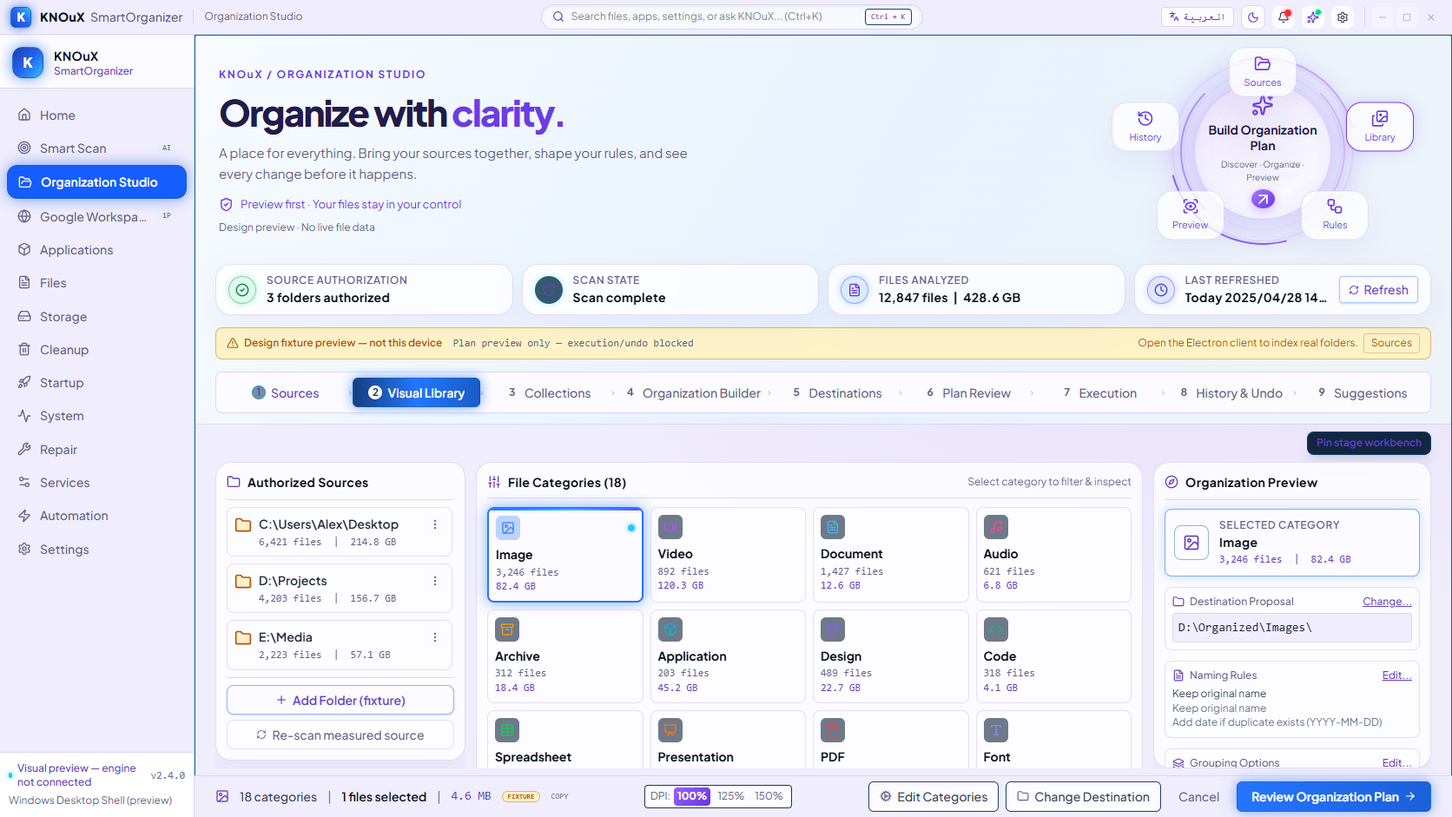
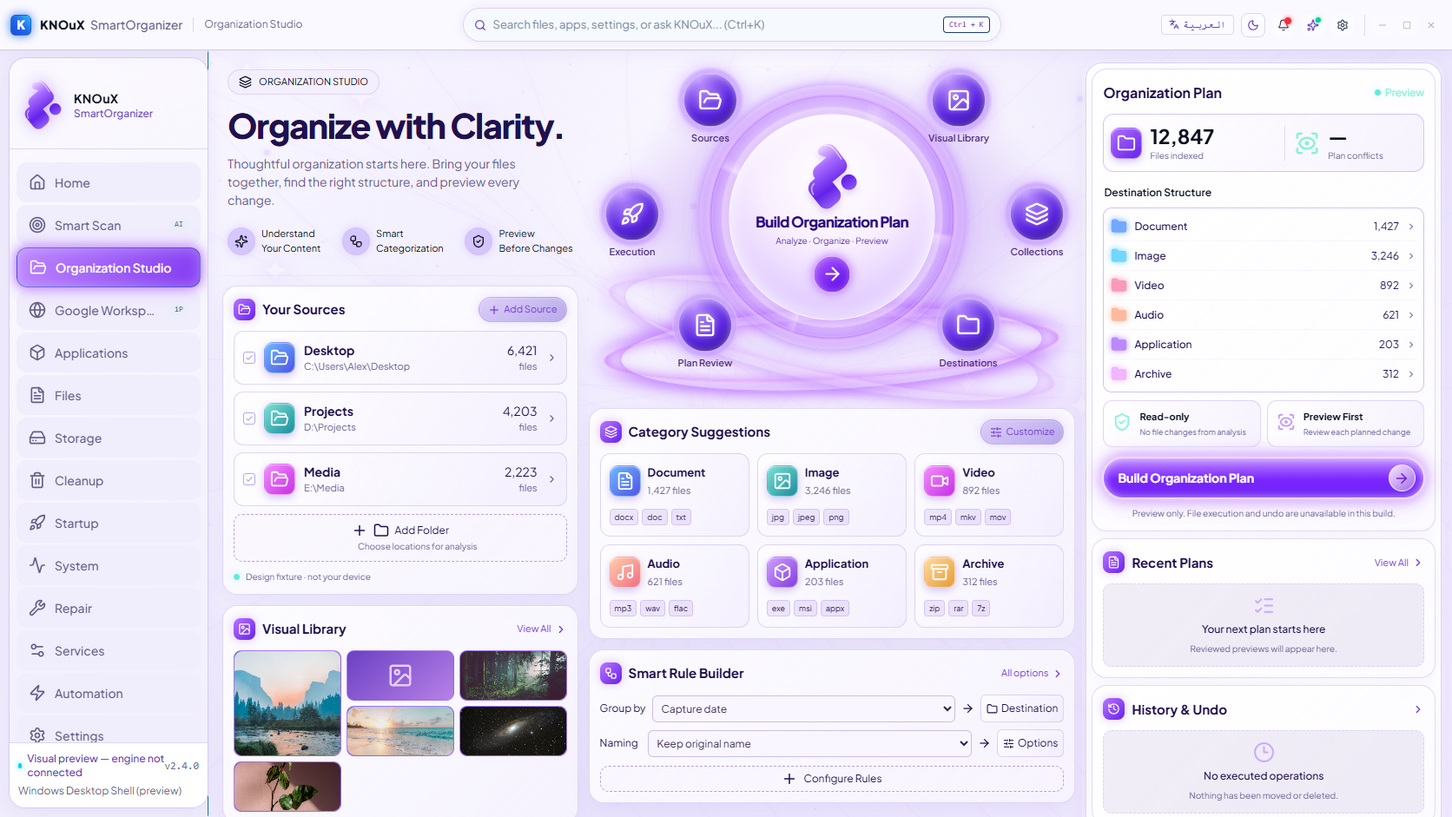
feat(visual): reconstruct studio composition from paired approved references

diff --git a/apps/gemini-ui/src/visual/studio-reference.css b/apps/gemini-ui/src/visual/studio-reference.css
@@ -1,0 +1,165 @@
+/* Reference reconstruction: content is native React; atmosphere is procedural SVG/CSS. */
+.visual-sprint[data-visual-section='studio']:has(.knx-studio-reference) {
+  --ref-ink: #f8f7ff; --ref-muted: #d0c9f5; --ref-border: #b293ff72;
+  --ref-card: linear-gradient(145deg,#5d47c155,#27236cbb 48%,#211d67b0);
+  --ref-inset: linear-gradient(120deg,#594ac34a,#302b813b); --ref-strong: #e3caff;
+  --ref-shadow: inset 0 1px 1px #ffffff45,inset 0 0 20px #9875ff0c,0 3px 15px #10092755,0 0 16px #9a65ff20;
+  background: #17124b; color: var(--ref-ink);
+}
+.visual-sprint[data-visual-section='studio'] main > .knx-studio-reference {
+  position: relative; flex: 1; min-height: 0; overflow: auto;
+  background: radial-gradient(ellipse at 52% 35%,#8c40fa80,transparent 42%),radial-gradient(ellipse at 3% 80%,#694cfa85,transparent 36%),radial-gradient(ellipse at 90% 10%,#7454e94d,transparent 42%),linear-gradient(130deg,#17184f,#25185c 58%,#211951) !important;
+  color: var(--ref-ink); isolation: isolate; scrollbar-width: thin;
+}
+.knx-reference-atmosphere { position: absolute; inset: 0; pointer-events: none; z-index: -1; overflow: hidden; opacity: .75; }
+.knx-reference-atmosphere svg { width: 100%; height: 100%; filter: drop-shadow(0 0 4px #c185ff); }
+.knx-reference-atmosphere::before { content:''; position:absolute; inset:0; background:radial-gradient(ellipse at 50% 45%,#c09bff33,transparent 45%),repeating-conic-gradient(from 18deg at 50% 38%,transparent 0deg 13deg,#ad82ef0c 13.2deg 13.6deg,transparent 14deg 31deg); }
+.knx-neural-lines { stroke: #b891ff; stroke-width: .65; opacity: .4; }
+.knx-starbursts { filter: drop-shadow(0 0 5px #fff) drop-shadow(0 0 10px #e5baff); }
+.knx-studio-reference-grid { display: grid; grid-template-columns: minmax(285px,.92fr) minmax(390px,1.26fr) minmax(310px,.92fr); gap: 12px; padding: 14px 12px 14px 16px; min-height: 100%; align-items: start; }
+.knx-ref-column { display: flex; flex-direction: column; min-width: 0; gap: 12px; }
+.knx-ref-intro { min-height: 245px; padding: 8px 6px 0; }
+.knx-ref-section-tag { display: inline-flex; align-items: center; gap: 8px; padding: 6px 12px; font-size: 11px; line-height: 1.3; border: 1px solid var(--ref-border); border-radius: 20px; background: #8160e329; box-shadow: inset 0 1px #ffffff20; }
+.knx-ref-intro h1 { font-size: clamp(28px,2.35vw,40px); line-height: 1.1; letter-spacing: -.035em; font-weight: 750; margin: 14px 0 12px; color: var(--ref-ink) !important; }
+.knx-ref-intro > p { font-size: 14px; line-height: 1.5; max-width: 380px; color: var(--ref-muted); }
+.knx-ref-values { display: flex; justify-content: space-between; margin-top: 20px; gap: 12px; }
+.knx-ref-values > span { display: grid; grid-template-columns: 32px 1fr; column-gap: 7px; align-items:center; font-size: 11px; line-height: 1.5; }
+.knx-ref-values svg { grid-row: span 2; width:32px; height:32px; padding:7px; border:1px solid var(--ref-border); border-radius:50%; background:#9366ff50; box-shadow:0 0 12px #9b65ff44; }
+.knx-ref-values small { font-size: 11px; }
+.knx-ref-card { border: 1px solid var(--ref-border); border-radius: 17px; padding: 12px; background: var(--ref-card); box-shadow: var(--ref-shadow); backdrop-filter: blur(16px); min-width: 0; }
+.knx-ref-card-head { display: flex; align-items: center; justify-content: space-between; gap: 8px; min-height: 29px; margin-bottom: 10px; }
+.knx-ref-card-head h2 { display:flex; align-items:center; gap:8px; font-size:14px; font-weight:700; margin:0; color:var(--ref-ink) !important; }
+.knx-ref-card-head h2 > svg { width:25px; height:25px; padding:5px; border-radius:8px; background:linear-gradient(135deg,#b875ff,#6821ed); color:white; box-shadow:0 0 12px #a56bff66; }
+.knx-ref-card-head > button,.knx-ref-card-head .knx-ref-pill { display:inline-flex; align-items:center; gap:4px; background:transparent; border:0; color:var(--ref-strong); font-size:11px; cursor:pointer; white-space:nowrap; }
+.knx-ref-card-head button > svg { width:14px; height:14px; }
+.knx-ref-card-head button.knx-ref-pill { border:1px solid #ae8eff77; background:linear-gradient(150deg,#a47bed55,#5336c966); border-radius:20px; padding:5px 10px; box-shadow:inset 0 1px 2px #ffffff44,0 0 12px #9b65ff33; }
+.knx-ref-source-list { display:flex; flex-direction:column; gap:8px; }
+.knx-ref-source { display:flex; align-items:center; gap:10px; width:100%; min-height:62px; padding:9px 10px; border:1px solid #a18bed5c; border-radius:11px; background:var(--ref-inset); text-align:start; color:var(--ref-ink); box-shadow:inset 0 1px 1px #ffffff12; cursor:pointer; }
+.knx-ref-checkbox { width:14px; height:14px; border:1px solid #b9a5ff; border-radius:3px; display:grid; place-items:center; flex-shrink:0; }
+.knx-ref-checkbox svg { width:10px; height:10px; opacity:.45; }
+.knx-ref-file-icon { width:36px; height:36px; flex-shrink:0; display:grid; place-items:center; border:1px solid #ffffff45; border-radius:10px; background:linear-gradient(140deg,#b16eff,#6523e8); color:#fff; box-shadow:inset 0 1px 1px #ffffff66,0 3px 10px #6327c844; }
+.knx-ref-file-icon svg { width:22px; height:22px; }
+.knx-ref-source-name { flex:1; min-width:0; }
+.knx-ref-source-name strong { display:block; font-size:12px; font-weight:650; overflow:hidden; text-overflow:ellipsis; white-space:nowrap; }
+.knx-ref-source-name small { display:block; font-size:10px; line-height:1.5; color:var(--ref-muted); overflow:hidden; text-overflow:ellipsis; white-space:nowrap; }
+.knx-ref-source-count { text-align:end; font-size:12px; }
+.knx-ref-source-count small { display:block; font-size:10px; color:var(--ref-muted); }
+.knx-ref-source > svg { width:13px; color:var(--ref-muted); flex-shrink:0; }
+.knx-ref-add { width:100%; display:flex; align-items:center; justify-content:center; flex-wrap:wrap; gap:7px; margin-top:9px; border:1px dashed #bba2ff; border-radius:10px; padding:9px; background:#39267833; color:var(--ref-ink); font-size:12px; cursor:pointer; }
+.knx-ref-add svg { width:18px; height:18px; }
+.knx-ref-add span { width:100%; padding-inline-start:40px; margin-top:-5px; color:var(--ref-muted); font-size:10px; }
+.knx-ref-source-status { font-size:10px; color:var(--ref-muted); display:flex; align-items:center; gap:7px; margin-top:10px; }
+.knx-ref-dot { display:inline-block; width:7px; height:7px; border-radius:50%; background:#63ead7; box-shadow:0 0 9px #4cebdc80; }
+.knx-ref-gallery { display:grid; grid-template-columns:repeat(3,minmax(0,1fr)); grid-auto-rows:58px; gap:6px; border:0; padding:0; width:100%; background:none; cursor:pointer; }
+.knx-ref-gallery img { width:100%; height:100%; object-fit:cover; border-radius:9px; border:1px solid #ae8eff66; }
+.knx-ref-gallery img:first-child { grid-row:span 2; }
+.knx-ref-thumbnail { display:grid; place-items:center; position:relative; overflow:hidden; border-radius:9px; background:linear-gradient(140deg,#6b40c4,#b781e6); border:1px solid #ae8eff66; }
+.knx-ref-thumbnail:first-child { grid-row:span 2; }.knx-ref-thumbnail > svg { width:30px; height:30px; color:#e5ccff; }.knx-ref-thumbnail > img { position:absolute; inset:0; height:100%; width:100%; border:0; }
+.knx-ref-gallery .knx-ref-empty { grid-column:1/-1; grid-row:span 2; }
+.knx-reference-orbit { position:relative; height:386px; min-width:0; isolation:isolate; }
+.knx-orbit-aura { position:absolute; width:100%; height:100%; inset:0; z-index:-1; background:radial-gradient(ellipse at 50% 48%,#fffaffcc 0,#dcadff66 18%,#9653ed42 38%,transparent 65%); filter:blur(8px); }
+.knx-reference-ring { position:absolute; left:50%; top:46%; width:285px; height:285px; transform:translate(-50%,-50%); border:2px solid #e2c0ff; border-radius:50%; box-shadow:0 0 8px #fff7ff,0 0 23px #b76aff,inset 0 0 25px #b773ff; background:conic-gradient(from 18deg,#d3a4ff16,#fff5ff77 5deg,#9b54f714 12deg,#9955ff55 80deg,#f9e1ff 82deg,#8b48f422 88deg,#b779ff33 180deg,#fff0ff99 181deg,#a364fa22 185deg,#b97fff44 275deg,#fff5ff 277deg,#b77dff22 282deg); }
+.knx-reference-ring::after { content:''; position:absolute; inset:-12px; border:1px solid #d9baff88; border-radius:50%; box-shadow:0 0 10px #ae69ff77; }
+.knx-reference-ring.inner { width:255px; height:255px; border:1px solid #e6cbff; background:transparent; box-shadow:0 0 0 6px #d4b0ff33,inset 0 0 12px #fff8ff; }
+.knx-reference-orbit-core { position:absolute; width:237px; height:237px; left:50%; top:46%; transform:translate(-50%,-50%); display:flex; flex-direction:column; align-items:center; justify-content:center; border:1px solid #fff; border-radius:50%; background:radial-gradient(circle at 50% 30%,#fff 0,#f9efff 40%,#dfc8ff 77%,#a570e9 100%); box-shadow:inset 0 0 22px #fff,0 0 22px #fff7ff88,0 0 42px #c78bff99; cursor:pointer; color:#2c087f !important; padding:20px; }
+.knx-reference-orbit-core > svg { width:65px; height:82px; margin-bottom:0; filter:drop-shadow(0 5px 4px #9a66c344); }
+.knx-reference-orbit-core { z-index:3; transform:translate3d(-50%,-50%,0); backface-visibility:hidden; will-change:transform; }.knx-reference-ring { z-index:0; }
+.knx-reference-orbit-core strong { font-size:17px; line-height:1.25; font-weight:750; letter-spacing:-.04em; white-space:nowrap; }
+.knx-reference-orbit-core small { font-size:10px; margin-top:3px; color:#4a21a0; }
+.knx-reference-orbit-core > span { display:grid; place-items:center; width:43px; height:43px; border-radius:50%; background:linear-gradient(140deg,#ae5cff,#5800e7); color:#fff; margin-top:10px; box-shadow:inset 0 0 8px #ffffff66,0 0 12px #ae5aff; border:1px solid #e1b3ff; }
+.knx-reference-orbit-core > span svg { width:24px; height:24px; }
+.knx-orbit-equator { position:absolute; left:3%; right:3%; bottom:19px; height:74px; border:2px solid #e7bfff; border-radius:50%; box-shadow:0 0 12px #fff,0 0 24px #ac51ff,inset 0 0 15px #c66bff; transform:rotate(-3deg); z-index:-1; }
+.knx-orbit-equator::before { content:''; position:absolute; inset:-12px 18px; border:1px solid #c890ffbb; border-radius:50%; box-shadow:0 0 18px #b76aff; }
+.knx-orbit-equator.second { bottom:25px; height:88px; transform:rotate(12deg); opacity:.5; }
+.knx-reference-satellite { position:absolute; transform:translate(-50%,-50%); width:90px; min-height:85px; display:flex; flex-direction:column; align-items:center; justify-content:center; background:none; color:#fff; border:0; cursor:pointer; gap:4px; z-index:2; }
+.knx-reference-satellite > span { display:grid; place-items:center; width:62px; height:62px; border-radius:50%; border:1px solid #d4afff; background:radial-gradient(circle at 30% 15%,#b88cff,#5a24df 58%,#2d1779); box-shadow:inset 0 2px 8px #fff7ff88,0 0 0 5px #ae7eff44,0 0 0 7px #d9bdff88,0 0 24px #bc7aff; }
+.knx-reference-satellite svg { width:28px; height:28px; filter:drop-shadow(0 0 3px #fff6); }
+.knx-reference-satellite strong { font-size:11px; font-weight:600; text-shadow:0 1px 5px #1a004e; }
+.knx-reference-satellite { transform:translate3d(-50%,-50%,0); backface-visibility:hidden; will-change:transform; z-index:4; }
+.satellite-0 { left:25%; top:14%; }.satellite-1 { left:76%; top:14%; }.satellite-2 { left:9%; top:48%; }.satellite-3 { left:92%; top:48%; }.satellite-4 { left:24%; top:81%; }.satellite-5 { left:78%; top:81%; }
+.knx-ref-category-grid { display:grid; grid-template-columns:repeat(3,minmax(0,1fr)); gap:9px; }
+.knx-ref-category { display:grid; grid-template-columns:36px minmax(0,1fr); align-items:center; gap:9px 8px; min-height:96px; border:1px solid #a38bf666; border-radius:12px; background:var(--ref-inset); color:var(--ref-ink); padding:10px; text-align:start; cursor:pointer; }
+.knx-ref-category strong { display:block; font-size:11px; font-weight:650; }
+.knx-ref-category small { display:block; font-size:10px; color:var(--ref-muted); margin-top:3px; }
+.knx-ref-extension-list { grid-column:1/-1; display:flex; gap:4px; overflow:hidden; }
+.knx-ref-extension-list i { font-style:normal; padding:2px 5px; border:1px solid #a486ee55; border-radius:4px; font-size:9px; background:#8d62d922; }
+.knx-ref-rules label { display:flex; align-items:center; gap:7px; margin-top:8px; font-size:11px; }
+.knx-ref-rules label > span { min-width:48px; }
+.knx-ref-rules select { flex:1; min-width:0; width:100%; padding:6px; border:1px solid #ad90f05c; border-radius:6px; background:#332775; color:#f6efff; font-size:11px; }
+.knx-ref-rules label > svg { width:15px; flex-shrink:0; }
+.knx-ref-rules label > button { display:inline-flex; align-items:center; justify-content:center; gap:4px; border:1px solid #ad90f05c; border-radius:6px; padding:6px; background:var(--ref-inset); color:var(--ref-ink); cursor:pointer; font-size:11px; }
+.knx-ref-rules label > button svg { width:13px; height:13px; }
+.knx-ref-add-rule { padding:5px; margin-top:10px; }
+.knx-ref-right { border:1px solid #b28bff; border-radius:19px; padding:6px; background:#3a287b44; box-shadow:0 0 0 4px #7645f022,0 0 22px #a576ff55; gap:8px; }
+.knx-ref-plan { padding:12px; }
+.knx-ref-plan .knx-ref-card-head h2 { font-size:16px; }
+.knx-ref-status { display:inline-flex; align-items:center; gap:5px; font-size:12px; color:#84f3db; }
+.knx-ref-plan-kpis { display:grid; grid-template-columns:1.25fr 1fr; background:var(--ref-inset); border:1px solid #aa8aff77; border-radius:12px; padding:12px 8px; gap:10px; margin-bottom:9px; }
+.knx-ref-plan-kpis > span { display:flex; align-items:center; gap:9px; min-width:0; }
+.knx-ref-plan-kpis > span + span { border-inline-start:1px solid #ae88ee44; padding-inline-start:10px; }
+.knx-ref-plan-kpis strong { font-size:23px; line-height:1.1; }
+.knx-ref-plan-kpis small { display:block; font-size:10px; font-weight:400; color:var(--ref-muted); margin-top:5px; }
+.knx-ref-plan-kpis > span > svg { width:30px; height:30px; color:#8af0d9; }
+.knx-ref-destination-heading { font-size:12px; font-weight:600; padding:6px 1px 8px; }
+.knx-ref-destination-tree { border:1px solid #9b85ed66; padding:4px 8px; border-radius:10px; background:#201a6344; }
+.knx-ref-destination-tree > button { display:flex; align-items:center; gap:8px; width:100%; border:0; border-bottom:1px solid #ba9ff019; background:none; color:var(--ref-ink); padding:7px 0; cursor:pointer; text-align:start; font-size:11px; }
+.knx-ref-destination-tree > button:last-child { border:0; }
+.knx-ref-destination-tree strong { flex:1; font-size:11px; font-weight:500; }
+.knx-ref-destination-tree button > svg { width:12px; height:12px; color:var(--ref-muted); }
+.knx-ref-folder { color:#72a8ff; display:flex; filter:drop-shadow(0 0 4px currentColor); }
+.knx-ref-folder svg { width:19px; height:19px; }
+.knx-ref-safe-pair { display:grid; grid-template-columns:1fr 1fr; gap:7px; margin-top:9px; }
+.knx-ref-safe-pair > div { display:grid; grid-template-columns:28px 1fr; column-gap:6px; padding:10px 7px; border:1px solid #ae8ff055; border-radius:11px; background:var(--ref-inset); }
+.knx-ref-safe-pair svg { grid-row:span 2; width:28px; height:28px; padding:3px; color:#81f5dd; }
+.knx-ref-safe-pair > div:last-child svg { color:#c39aff; }
+.knx-ref-safe-pair strong { font-size:11px; }
+.knx-ref-safe-pair small { font-size:9px; line-height:1.4; color:var(--ref-muted); margin-top:3px; }
+.knx-ref-primary { display:flex; align-items:center; justify-content:center; gap:12px; width:100%; margin-top:12px; border-radius:30px; border:1px solid #f5dfff; background:linear-gradient(180deg,#be87ff,#7926ff 54%,#6d20ef); color:#fff !important; padding:7px 9px 7px 16px; font-size:14px; font-weight:700; cursor:pointer; box-shadow:inset 0 0 10px #ffffffaa,0 0 5px #fff,0 0 15px #c279ff,0 0 28px #a960ff77; }
+.knx-ref-primary > span { width:31px; height:31px; border-radius:50%; border:1px solid #ffffffbb; display:grid; place-items:center; margin-inline-start:auto; background:linear-gradient(140deg,#f9eaff,#a267ed); color:#6a21c9; }
+.knx-ref-primary svg { width:18px; height:18px; }
+.knx-ref-plan-note { font-size:10px; line-height:1.5; margin-top:10px; color:var(--ref-muted); text-align:center; }
+.knx-ref-empty { display:flex; flex-direction:column; align-items:center; justify-content:center; gap:6px; min-height:94px; padding:12px; color:var(--ref-muted); text-align:center; border:1px dashed #b696f04d; border-radius:10px; background:#52369115; }
+.knx-ref-empty > svg { width:25px; height:25px; color:#c9abff; }
+.knx-ref-empty > strong { font-size:12px; color:var(--ref-ink); font-weight:500; }
+.knx-ref-empty small { font-size:10px; }
+.knx-ref-history-row { width:100%; display:flex; align-items:center; gap:10px; background:var(--ref-inset); border:1px solid var(--ref-border); border-radius:10px; padding:12px; color:var(--ref-ink); cursor:pointer; }
+.knx-ref-history-row > svg { width:22px; height:22px; }.knx-ref-history-row span { flex:1; text-align:start; }.knx-ref-history-row strong { display:block; font-size:12px; }.knx-ref-history-row small { display:block; font-size:10px; color:var(--ref-muted); margin-top:4px; }
+.knx-ref-file-icon.tone-0 { background:linear-gradient(135deg,#6fb9ff,#4d54e6); }.knx-ref-file-icon.tone-1 { background:linear-gradient(135deg,#7ce0d7,#198e9b); }.knx-ref-file-icon.tone-2 { background:linear-gradient(135deg,#f48dfc,#c630e4); }.knx-ref-file-icon.tone-3 { background:linear-gradient(135deg,#ffcfaa,#f06e84); }.knx-ref-file-icon.tone-4 { background:linear-gradient(135deg,#cfa0ff,#833be0); }.knx-ref-file-icon.tone-5 { background:linear-gradient(135deg,#ffdba4,#e59b36); }
+.knx-ref-folder.tone-1 { color:#70d7ff; }.knx-ref-folder.tone-2 { color:#f99aba; }.knx-ref-folder.tone-3 { color:#feba9f; }.knx-ref-folder.tone-4 { color:#bb88ff; }.knx-ref-folder.tone-5 { color:#f2b6ff; }
+.knx-ref-card button:hover:not(:disabled),.knx-reference-satellite:hover { filter:brightness(1.15); }
+.knx-shell-ribbonmark { display:none; }
+.visual-sprint[data-visual-section='studio']:has(.knx-studio-reference) .knx-shell-lettermark { display:none; }
+.visual-sprint[data-visual-section='studio']:has(.knx-studio-reference) .knx-shell-ribbonmark { display:block; width:49px; height:64px; filter:drop-shadow(0 0 9px #b580ff99); }
+.visual-sprint[data-visual-section='studio']:has(.knx-studio-reference) .knx-sidebar-brand-emblem { background:transparent !important; border:0; box-shadow:none; width:48px; height:65px; }
+.knx-ref-source-name strong,.knx-ref-source-count { font-size:14px; }.knx-ref-source-name small,.knx-ref-source-count small { font-size:11px; }
+.knx-ref-category strong { font-size:13px; }.knx-ref-category small { font-size:11px; }.knx-ref-card-head h2 { font-size:15px; }.knx-ref-destination-tree strong,.knx-ref-destination-tree > button { font-size:12px; }
+.knx-ref-rules label,.knx-ref-rules select,.knx-ref-rules label > button { font-size:12px; }
+.visual-sprint[data-visual-section='studio']:has(.knx-studio-reference) .knoux-titlebar > div:nth-child(2) { width:min(42vw,620px); min-height:39px; border-color:#b89be9aa; background:#7050c044; box-shadow:inset 0 0 12px #fff1,0 0 12px #a575e52b; }
+.visual-sprint[data-visual-section='studio']:has(.knx-studio-reference) .knoux-titlebar input { font-size:13px; }
+.visual-sprint[data-visual-section='studio'] main > .knx-studio-reference { background:radial-gradient(ellipse at 52% 35%,#a451fa88,transparent 45%),radial-gradient(ellipse at 3% 80%,#815bfa88,transparent 45%),radial-gradient(ellipse at 90% 10%,#8661ed66,transparent 48%),linear-gradient(130deg,#241e70,#3c247d 58%,#342572) !important; }
+html[data-theme='light'] .visual-sprint[data-visual-section='studio'] main > .knx-studio-reference { background:radial-gradient(ellipse at 50% 20%,#fff 0,#f9f5ff55 38%,transparent 64%),linear-gradient(125deg,#f8f7ff,#e8e2fc 52%,#f1eaff) !important; }
+.knx-reference-back { align-self:flex-start; background:var(--v-panel); border:1px solid var(--v-line); padding:7px 14px; margin:8px 20px 0; border-radius:8px; font-size:13px; color:var(--v-ink); cursor:pointer; }
+.visual-sprint[data-visual-section='studio']:has(.knx-studio-reference) .knoux-titlebar { min-height:58px; background:linear-gradient(110deg,#28206fdd,#31207fbb) !important; border-color:#bd8eff66 !important; box-shadow:0 1px 12px #d4a8ff44; }
+.visual-sprint[data-visual-section='studio']:has(.knx-studio-reference) aside[class*='w-56'] { width:230px; margin:8px 0 10px 10px; height:auto; border:1px solid #cda6ffbb !important; border-radius:19px; background:linear-gradient(135deg,#6a4ed077,#372b87b0) !important; box-shadow:inset 0 0 18px #b68aff22,0 0 14px #bd88ff77; backdrop-filter:blur(15px); }
+.visual-sprint[data-visual-section='studio']:has(.knx-studio-reference) aside nav button { min-height:46px; color:#f0eaff; font-weight:500; margin-block:3px; padding-inline:14px; }
+.visual-sprint[data-visual-section='studio']:has(.knx-studio-reference) aside nav button > svg { width:20px; height:20px; color:#f1eaff; }
+.visual-sprint[data-visual-section='studio']:has(.knx-studio-reference) aside nav button[aria-current='page'] { border:1px solid #efd4ff; background:linear-gradient(120deg,#bd86ff,#8138f1) !important; box-shadow:inset 0 0 15px #fff5,0 0 13px #b16aff,0 0 22px #c38dff66; }
+.visual-sprint[data-visual-section='studio']:has(.knx-studio-reference) aside > div > div:first-child { min-height:105px; background:transparent !important; border-color:#c6a1ff55; }
+html[data-theme='light'] .visual-sprint[data-visual-section='studio']:has(.knx-studio-reference) { --ref-ink:#20104e; --ref-muted:#6b6094; --ref-border:#cabcf58c; --ref-card:linear-gradient(135deg,#ffffffd9,#fbf9ffb0); --ref-inset:linear-gradient(120deg,#ffffffb0,#eee7fd77); --ref-strong:#7236d6; --ref-shadow:inset 0 1px 1px #fff,0 6px 20px #7454be12; }
+html[data-theme='light'] .visual-sprint[data-visual-section='studio'] main > .knx-studio-reference { background:radial-gradient(ellipse at 50% 20%,#fff 0,#f9f5ff55 38%,transparent 64%),linear-gradient(125deg,#f8f7ff,#e8e2fc 52%,#f1eaff) !important; }
+html[data-theme='light'] .knx-reference-atmosphere { opacity:.2; }.knx-studio-reference[dir='rtl'] { direction:rtl; }
+html[data-theme='light'] .knx-ref-section-tag { background:#f4efff; }
+html[data-theme='light'] .knx-ref-intro { background:transparent !important; }
+html[data-theme='light'] .knx-ref-right { background:#f8f5ff66; border-color:#c4aff6; box-shadow:0 0 0 4px #fff3,0 6px 20px #8563bd18; }
+html[data-theme='light'] .knx-ref-destination-tree { background:#fff5; border-color:#d1c2f2; }
+html[data-theme='light'] .knx-ref-source,html[data-theme='light'] .knx-ref-category { border-color:#c6b6ed88; }
+html[data-theme='light'] .knx-ref-add { background:#f9f6ff88; border-color:#b9a0e5; }
+html[data-theme='light'] .knx-ref-rules select { background:#f9f6ff; color:#34234e; border-color:#cbbde9; }
+html[data-theme='light'] .knx-reference-satellite strong { color:#4a287e; text-shadow:none; }
+html[data-theme='light'] .visual-sprint[data-visual-section='studio']:has(.knx-studio-reference) .knoux-titlebar { background:#fbfaffdd !important; border-color:#d2c6f1 !important; box-shadow:0 3px 18px #7e60bc15; }
+html[data-theme='light'] .visual-sprint[data-visual-section='studio']:has(.knx-studio-reference) aside[class*='w-56'] { background:linear-gradient(145deg,#ffffffbb,#f2edffbb) !important; border-color:#d8cbf8 !important; box-shadow:0 4px 24px #7452be1a; }
+html[data-theme='light'] .visual-sprint[data-visual-section='studio']:has(.knx-studio-reference) aside nav button,html[data-theme='light'] .visual-sprint[data-visual-section='studio']:has(.knx-studio-reference) aside nav button > svg { color:#51428a; }
+html[data-theme='light'] .visual-sprint[data-visual-section='studio']:has(.knx-studio-reference) aside nav button[aria-current='page'],html[data-theme='light'] .visual-sprint[data-visual-section='studio']:has(.knx-studio-reference) aside nav button[aria-current='page'] > svg { color:white !important; }
+@media (max-width:1450px) { .knx-studio-reference-grid { grid-template-columns:minmax(260px,.9fr) minmax(350px,1.15fr) minmax(280px,.9fr); gap:10px; padding:12px; }.knx-ref-intro { min-height:235px; }.knx-reference-orbit { height:340px; }.knx-reference-ring { width:245px; height:245px; }.knx-reference-ring.inner { width:218px; height:218px; }.knx-reference-orbit-core { width:203px; height:203px; }.knx-reference-orbit-core > svg { width:52px; height:65px; }.knx-reference-orbit-core strong { font-size:14px; }.knx-reference-satellite > span { width:51px; height:51px; }.knx-reference-satellite { width:75px; }.knx-ref-category-grid { gap:6px; }.knx-ref-category { grid-template-columns:1fr; gap:7px; }.knx-ref-category .knx-ref-file-icon { width:30px; height:30px; }.knx-ref-source-count { display:none; }.knx-ref-values { gap:5px; }.knx-ref-values > span { grid-template-columns:24px 1fr; font-size:10px; }.knx-ref-values svg { width:24px; height:24px; padding:5px; }.knx-ref-values small { font-size:10px; }.knx-ref-plan-kpis strong { font-size:19px; } }
+@media (max-width:1220px) { .knx-studio-reference-grid { grid-template-columns:minmax(270px,1fr) minmax(370px,1.35fr); }.knx-ref-right { grid-column:1/-1; display:grid; grid-template-columns:1.2fr 1fr; }.knx-ref-plan { grid-row:span 2; }.visual-sprint[data-visual-section='studio']:has(.knx-studio-reference) aside[class*='w-56'] { width:205px; } }
+@media (max-width:900px) { .knx-studio-reference-grid { display:flex; flex-direction:column; }.knx-ref-column { width:100%; }.knx-ref-intro { min-height:0; padding-bottom:15px; }.knx-ref-center { order:-1; }.knx-ref-right { display:flex; }.knx-ref-category-grid { grid-template-columns:repeat(3,minmax(0,1fr)); } }

diff --git a/apps/gemini-ui/src/visual/StudioReferenceOverview.tsx b/apps/gemini-ui/src/visual/StudioReferenceOverview.tsx
@@ -1,0 +1,83 @@
+import React from 'react';
+import { ArrowRight, Archive, Box, Check, ChevronRight, CircleHelp, Clock3, FileText, Folder, FolderOpen, History, Image, Layers3, ListChecks, Music, Plus, Rocket, ScanEye, ShieldCheck, SlidersHorizontal, Sparkles, Video, Workflow } from 'lucide-react';
+import { useStudio } from '../studio/context';
+import { renderCategoryIcon } from '../studio/parts';
+import type { StudioStageId } from '../studio/types';
+import { KnouxMark, ReferenceAtmosphere } from './ReferenceAtmosphere';
+
+export function StudioReferenceOverview({ onOpen }: { onOpen: (id: StudioStageId) => void }) {
+  const s = useStudio();
+  const ar = s.locale === 'ar';
+  const t = (en: string, arabic: string) => ar ? arabic : en;
+  const categories = ['document','image','video','audio','application','archive'].map(key => s.categories.find(c => c.key === key)).filter(Boolean);
+  const actions = [
+    { id: 1, icon: FolderOpen, label: t('Sources','المصادر') }, { id: 2, icon: Image, label: t('Visual Library','المكتبة المرئية') },
+    { id: 7, icon: Rocket, label: t('Execution','التنفيذ') }, { id: 3, icon: Layers3, label: t('Collections','المجموعات') },
+    { id: 6, icon: FileText, label: t('Plan Review','مراجعة الخطة') }, { id: 5, icon: Folder, label: t('Destinations','الوجهات') },
+  ];
+  const addSource = () => s.native.available ? void s.addNativeSource() : onOpen(1);
+  return <div className="knx-studio-reference" data-testid="studio-reference-overview">
+    <ReferenceAtmosphere />
+    <div className="knx-studio-reference-grid">
+      <div className="knx-ref-column knx-ref-left">
+        <header className="knx-ref-intro">
+          <span className="knx-ref-section-tag"><LayoutIcon />{t('ORGANIZATION STUDIO','استوديو التنظيم')}</span>
+          <h1>{t('Organize with Clarity.','نظّم عالمك بوضوح.')}</h1>
+          <p>{t('Thoughtful organization starts here. Bring your files together, find the right structure, and preview every change.','ابدأ تنظيمًا مدروسًا. اجمع ملفاتك، واختر هيكلها المناسب، وراجع كل تغيير.')}</p>
+          <div className="knx-ref-values"><span><Sparkles/>{t('Understand','افهم')}<small>{t('Your Content','محتواك')}</small></span><span><Workflow/>{t('Smart','تصنيف')}<small>{t('Categorization','ذكي')}</small></span><span><ShieldCheck/>{t('Preview','المعاينة')}<small>{t('Before Changes','قبل التغيير')}</small></span></div>
+        </header>
+        <section className="knx-ref-card knx-ref-sources">
+          <div className="knx-ref-card-head"><h2><FolderOpen/>{t('Your Sources','مصادرك')}</h2><button className="knx-ref-pill" onClick={addSource}><Plus/>{t('Add Source','إضافة مصدر')}</button></div>
+          <div className="knx-ref-source-list">{s.authorizedSources.map((source,i) => <button key={source.id} className="knx-ref-source" onClick={() => onOpen(1)}>
+            <span className="knx-ref-checkbox"><Check/></span><span className={`knx-ref-file-icon tone-${i % 4}`}><FolderOpen/></span>
+            <span className="knx-ref-source-name"><strong>{source.path.split(/[\\/]/).filter(Boolean).at(-1) || source.path}</strong><small dir="ltr">{source.path}</small></span>
+            <span className="knx-ref-source-count">{source.fileCount.toLocaleString()}<small>{t('files','ملف')}</small></span><ChevronRight/>
+          </button>)}</div>
+          <button className="knx-ref-add" onClick={addSource}><Plus/><Folder/>{t('Add Folder','إضافة مجلد')}<span>{t('Choose locations for analysis','اختر نطاق التحليل')}</span></button>
+          <div className="knx-ref-source-status"><span className="knx-ref-dot"/>{s.native.mode === 'measured' ? t('Measured source inventory','جرد مصادر مقيس') : t('Design fixture · not your device','بيانات تصميم تجريبية · ليست لجهازك')}</div>
+        </section>
+        <section className="knx-ref-card knx-ref-library"><div className="knx-ref-card-head"><h2><Image/>{t('Visual Library','المكتبة المرئية')}</h2><button onClick={() => onOpen(2)}>{t('View All','عرض الكل')}<ChevronRight/></button></div>
+          <button className="knx-ref-gallery" onClick={() => onOpen(2)} aria-label={t('Open visual library','فتح المكتبة المرئية')}>
+            {s.files.filter(f => f.thumbnailUrl).slice(0,6).map(f => <span key={f.id} className="knx-ref-thumbnail"><Image/><img src={f.thumbnailUrl} alt={f.name} onError={e => { e.currentTarget.style.display = 'none'; }} /></span>)}
+            {!s.files.some(f => f.thumbnailUrl) && <span className="knx-ref-empty"><Image/>{t('Choose a source to explore your library','اختر مصدرًا لاستكشاف مكتبتك')}</span>}
+          </button>
+        </section>
+      </div>
+      <div className="knx-ref-column knx-ref-center">
+        <section className="knx-reference-orbit" aria-label={t('Organization tools','أدوات التنظيم')}>
+          <div className="knx-orbit-aura" aria-hidden="true"/><div className="knx-orbit-equator" aria-hidden="true"/><div className="knx-orbit-equator second" aria-hidden="true"/>
+          <div className="knx-reference-ring" aria-hidden="true"/><div className="knx-reference-ring inner" aria-hidden="true"/>
+          <button className="knx-reference-orbit-core" onClick={() => onOpen(6)}><KnouxMark/><strong>{t('Build Organization Plan','بناء خطة التنظيم')}</strong><small>{t('Analyze · Organize · Preview','حلّل · نظّم · عاين')}</small><span><ArrowRight/></span></button>
+          {actions.map((a,i) => <button key={a.id} className={`knx-reference-satellite satellite-${i}`} onClick={() => onOpen(a.id as StudioStageId)}><span><a.icon/></span><strong>{a.label}</strong></button>)}
+        </section>
+        <section className="knx-ref-card knx-ref-categories"><div className="knx-ref-card-head"><h2><Layers3/>{t('Category Suggestions','اقتراحات التصنيف')}</h2><button className="knx-ref-pill" onClick={() => onOpen(3)}><SlidersHorizontal/>{t('Customize','تخصيص')}</button></div>
+          <div className="knx-ref-category-grid">{categories.map((category,i) => category && <button key={category.key} className="knx-ref-category" onClick={() => { s.setSelectedCategoryKey(category.key); onOpen(2); }}>
+            <span className={`knx-ref-file-icon tone-${i}`}>{renderCategoryIcon(category.iconName)}</span><div><strong>{ar ? category.labelAr : category.labelEn}</strong><small>{category.fileCount.toLocaleString()} {t('files','ملف')}</small></div>
+            <span className="knx-ref-extension-list">{category.defaultExtensions.slice(0,3).map(ext => <i key={ext}>{ext}</i>)}</span>
+          </button>)}</div>
+        </section>
+        <section className="knx-ref-card knx-ref-rules"><div className="knx-ref-card-head"><h2><Workflow/>{t('Smart Rule Builder','منشئ القواعد الذكي')}</h2><button onClick={() => onOpen(4)}>{t('All options','كل الخيارات')}<ChevronRight/></button></div>
+          <label><span>{t('Group by','التجميع')}</span><select value={s.groupingRule.groupBy} onChange={e => s.setGroupingRule(p => ({ ...p, groupBy: e.target.value as typeof p.groupBy }))}><option value="category">{t('File category','نوع الملف')}</option><option value="extension">{t('Extension','الامتداد')}</option><option value="capture_date">{t('Capture date','تاريخ الالتقاط')}</option><option value="size">{t('File size','حجم الملف')}</option><option value="project">{t('Project','المشروع')}</option></select><ArrowRight/><button onClick={() => onOpen(5)}><Folder/>{t('Destination','الوجهة')}</button></label>
+          <label><span>{t('Naming','التسمية')}</span><select value={s.namingRule.strategy} onChange={e => s.setNamingRule(p => ({ ...p, strategy: e.target.value as typeof p.strategy }))}><option value="original">{t('Keep original name','الاسم الأصلي')}</option><option value="date_prefix">{t('Date prefix','بادئة التاريخ')}</option><option value="kebab_case">kebab-case</option><option value="custom_pattern">{t('Custom pattern','نمط مخصص')}</option></select><ArrowRight/><button onClick={() => onOpen(4)}><SlidersHorizontal/>{t('Options','الخيارات')}</button></label>
+          <button className="knx-ref-add knx-ref-add-rule" onClick={() => onOpen(4)}><Plus/>{t('Configure Rules','ضبط القواعد')}</button>
+        </section>
+      </div>
+      <aside className="knx-ref-column knx-ref-right">
+        <section className="knx-ref-card knx-ref-plan"><div className="knx-ref-card-head"><h2>{t('Organization Plan','خطة التنظيم')}</h2><span className="knx-ref-status"><span className="knx-ref-dot"/>{t('Preview','معاينة')}</span></div>
+          <div className="knx-ref-plan-kpis"><span><span className="knx-ref-file-icon"><Folder/></span><strong>{s.inventory.totalFiles.toLocaleString()}<small>{t('Files indexed','ملف مفهرس')}</small></strong></span><span><ScanEye/><strong>{s.native.plan ? s.native.plan.collisions.length : '—'}<small>{t('Plan conflicts','تعارضات الخطة')}</small></strong></span></div>
+          <div className="knx-ref-destination-heading">{t('Destination Structure','هيكل الوجهة')}</div>
+          <div className="knx-ref-destination-tree">{categories.map((category,i) => category && <button key={category.key} onClick={() => onOpen(5)}><span className={`knx-ref-folder tone-${i}`}><Folder fill="currentColor"/></span><strong>{ar ? category.labelAr : category.labelEn}</strong><span>{category.fileCount.toLocaleString()}</span><ChevronRight/></button>)}</div>
+          <div className="knx-ref-safe-pair"><div><ShieldCheck/><strong>{t('Read-only','قراءة فقط')}</strong><small>{t('No file changes from analysis','التحليل لا يغيّر ملفاتك')}</small></div><div><ScanEye/><strong>{t('Preview First','المعاينة أولاً')}</strong><small>{t('Review each planned change','راجع كل تغيير مقترح')}</small></div></div>
+          <button className="knx-ref-primary" onClick={() => onOpen(6)}>{t('Build Organization Plan','بناء خطة التنظيم')}<span><ArrowRight/></span></button>
+          <p className="knx-ref-plan-note">{t('Preview only. File execution and undo are unavailable in this build.','معاينة فقط. تنفيذ تغييرات الملفات والتراجع غير متاحين في هذا البناء.')}</p>
+        </section>
+        <section className="knx-ref-card knx-ref-recent"><div className="knx-ref-card-head"><h2><FileText/>{t('Recent Plans','الخطط الأخيرة')}</h2><button onClick={() => onOpen(8)}>{t('View All','عرض الكل')}<ChevronRight/></button></div>
+          {s.native.previewHistory.length ? <button className="knx-ref-history-row" onClick={() => onOpen(8)}><FileText/><span><strong>{t('Saved preview receipts','إيصالات المعاينة المحفوظة')}</strong><small>{s.native.previewHistory.length} {t('previews · no execution','معاينة · دون تنفيذ')}</small></span><ChevronRight/></button> : <div className="knx-ref-empty"><ListChecks/><strong>{t('Your next plan starts here','خطتك التالية تبدأ هنا')}</strong><small>{t('Reviewed previews will appear here.','ستظهر المعاينات المحفوظة هنا.')}</small></div>}
+        </section>
+        <section className="knx-ref-card knx-ref-history"><div className="knx-ref-card-head"><h2><History/>{t('History & Undo','السجل والتراجع')}</h2><button onClick={() => onOpen(8)}><ChevronRight/></button></div><div className="knx-ref-empty"><Clock3/><strong>{t('No executed operations','لا توجد عمليات منفذة')}</strong><small>{t('Nothing has been moved or deleted.','لم يُنقل أو يُحذف أي ملف.')}</small></div></section>
+      </aside>
+    </div>
+  </div>;
+}
+
+function LayoutIcon() { return <Layers3 size={15}/>; }

diff --git a/apps/gemini-ui/src/studio/StudioPage.tsx b/apps/gemini-ui/src/studio/StudioPage.tsx
@@ -20,6 +20,7 @@ import { NativeStudioBanner } from './NativeStudioBanner';
 import { StudioVisualHeader } from '../visual/StudioVisualHeader';
 import { KNOuXTitleBar } from '../components/shell/KNOuXShellComponents';
 import { useNavigation } from '../context/NavigationContext';
+import { StudioReferenceOverview } from '../visual/StudioReferenceOverview';
 
 // Workspaces for each of the 9 stages
 import { SourceGrantWorkspace } from './workspaces/SourceGrantWorkspace';
@@ -37,6 +38,18 @@ import { ServiceWorkbenchHost, type WorkbenchMode } from '../components/workbenc
 export function StudioPage({ onNavigate }: { onNavigate?: (section: string) => void }) {
   const { activeStageId, locale, setLocale, stages, authorizedSources, selectedFileIds } = useStudio();
   const navigation = useNavigation();
+  const [overviewVisible, setOverviewVisible] = useState(true);
+  const studio = useStudio();
+  useEffect(() => { setLocale(navigation.locale); }, [navigation.locale, setLocale]);
+  const openStage = (id: import('./types').StudioStageId) => { studio.setActiveStageId(id); setOverviewVisible(false); };
+  useEffect(() => {
+    const openKeyboardStage = (event: KeyboardEvent) => {
+      if (event.target instanceof HTMLElement && event.target.closest('input,textarea,select,[contenteditable="true"]')) return;
+      if (/^[1-9]$/.test(event.key)) setOverviewVisible(false);
+    };
+    window.addEventListener('keydown', openKeyboardStage);
+    return () => window.removeEventListener('keydown', openKeyboardStage);
+  }, []);
   const [dpiScale, setDpiScale] = useState<'100%' | '125%' | '150%'>('100%');
   const [stageWorkbenchMode, setStageWorkbenchMode] = useState<WorkbenchMode>(() => {
     try { return localStorage.getItem('knoux.studio.workbench.mode') === 'side' ? 'side' : 'expanded'; } catch { return 'expanded'; }
@@ -115,6 +128,8 @@ export function StudioPage({ onNavigate }: { onNavigate?: (section: string) => v
 
         {/* Main Content Area */}
         <main className="flex-1 flex flex-col min-w-0 bg-[#061226] relative overflow-hidden">
+          {overviewVisible ? <StudioReferenceOverview onOpen={openStage} /> : <>
+          <button className="knx-reference-back" onClick={() => setOverviewVisible(true)}>{locale === 'ar' ? '→ العودة إلى لوحة التنظيم' : '← Organization overview'}</button>
           {/* Top Atmospheric Header Area */}
           <div className="shrink-0 bg-gradient-to-b from-[#08172e] to-[#061226] border-b border-[#0f2444] pb-1">
             {/* 01 — Cinematic Planet Header */}
@@ -186,6 +201,7 @@ export function StudioPage({ onNavigate }: { onNavigate?: (section: string) => v
               </div>
             }
           />
+          </>}
         </main>
       </div>
     </div>

diff --git a/apps/gemini-ui/src/visual/ReferenceAtmosphere.tsx b/apps/gemini-ui/src/visual/ReferenceAtmosphere.tsx
@@ -1,0 +1,25 @@
+import React, { useId } from 'react';
+
+export function KnouxMark({ className = '' }: { className?: string }) {
+  const id = useId().replace(/:/g, '');
+  return <svg className={className} viewBox="0 0 72 92" fill="none" aria-hidden="true">
+    <defs><linearGradient id={id} x1="12" y1="7" x2="64" y2="82" gradientUnits="userSpaceOnUse"><stop stopColor="#fbf0ff"/><stop offset=".3" stopColor="#a66aff"/><stop offset=".63" stopColor="#6422e9"/><stop offset="1" stopColor="#b388ff"/></linearGradient></defs>
+    <path d="M26 5c5-3 11-1 15 4l12 16c4 5 3 12-2 16L34 55c-5 4-12 3-16-2l-4-5c-4-5-3-12 2-16l13-11-9-3c-4-5-2-10 6-13Z" fill={`url(#${id})`}/>
+    <path d="m30 45 15 18c4 5 3 12-2 16l-7 6c-5 4-12 3-16-2L8 68c-4-5-3-12 2-16l7-6c4-4 9-4 13-1Z" fill={`url(#${id})`}/>
+    <circle cx="58" cy="53" r="10" fill={`url(#${id})`}/>
+    <path d="M26 6c6-2 10 1 14 6l8 11M13 55c-4 4-4 9-1 14" stroke="white" strokeOpacity=".65" strokeWidth="1.5" strokeLinecap="round"/>
+  </svg>;
+}
+
+/** Procedural decorative light; contains no telemetry or simulated operation state. */
+export function ReferenceAtmosphere() {
+  const points = Array.from({ length: 190 }, (_, i) => ({ x: ((i * 137 + 31) % 997), y: ((i * 89 + 17) % 601), r: i % 17 === 0 ? 2.5 : .7 }));
+  return <div className="knx-reference-atmosphere" aria-hidden="true"><svg viewBox="0 0 1000 600" preserveAspectRatio="none">
+    <g className="knx-neural-lines" fill="none">
+      {Array.from({ length: 14 }, (_, i) => <path key={i} d={`M ${i * 93 - 220} -20 Q ${500 - i * 31} ${180 + i * 26} ${1005 - i * 57} 630`} />)}
+      {Array.from({ length: 6 }, (_, i) => <path key={`arc${i}`} d={`M -40 ${i * 119} Q ${380 + i * 90} ${560 - i * 135} 1040 ${100 + i * 81}`} />)}
+    </g>
+    <g>{points.map((p, i) => <circle key={i} cx={p.x} cy={p.y} r={p.r} fill={i % 4 === 0 ? '#fff5ff' : '#b18aff'} />)}</g>
+    <g className="knx-starbursts" fill="#fff3ff">{points.filter((_, i) => i % 11 === 0).map((p, i) => <path key={i} d={`M${p.x} ${p.y-9}q1 8 10 9-9 1-10 9-1-8-10-9 9-1 10-9Z`} />)}</g>
+  </svg></div>;
+}

diff --git a/apps/gemini-ui/src/components/shell/KNOuXShellComponents.tsx b/apps/gemini-ui/src/components/shell/KNOuXShellComponents.tsx
@@ -8,6 +8,7 @@
 
 import React, { useEffect, useMemo, useRef, useState } from 'react';
 import { normalizeSection, useNavigation } from '../../context/NavigationContext';
+import { KnouxMark } from '../../visual/ReferenceAtmosphere';
 import { NativeBridgePanel } from '../../native/NativeBridgePanel';
 import { controlNativeWindow, getNativeShell, readBridgeStatus } from '../../native/client';
 import type { BridgeStatusData } from '../../../shared/native-contracts';
@@ -259,8 +260,9 @@ export const KNOuXSidebar: React.FC<KNOuXSidebarProps> = ({
           onClick={() => onNavigate('home')}
           className="p-3.5 pb-2.5 flex items-center gap-3 border-b border-[#0e223d]/70 cursor-pointer hover:bg-[#07152b] transition-colors"
         >
-          <div className="w-9 h-9 rounded-xl bg-gradient-to-br from-[#1e40af] via-[#2563eb] to-[#38bdf8] flex items-center justify-center shadow-[0_0_16px_rgba(37,99,235,0.7)] shrink-0 border border-cyan-400/40">
-            <span className="text-base font-black text-white">K</span>
+          <div className="knx-sidebar-brand-emblem w-9 h-9 rounded-xl bg-gradient-to-br from-[#1e40af] via-[#2563eb] to-[#38bdf8] flex items-center justify-center shadow-[0_0_16px_rgba(37,99,235,0.7)] shrink-0 border border-cyan-400/40">
+            <span className="knx-shell-lettermark text-base font-black text-white">K</span>
+            <KnouxMark className="knx-shell-ribbonmark" />
           </div>
           <div className="leading-tight">
             <div className="text-sm font-bold text-white tracking-wide">KNOuX</div>

diff --git a/apps/gemini-ui/src/App.tsx b/apps/gemini-ui/src/App.tsx
@@ -43,6 +43,7 @@ import './visual/visual-sprint.css';
 import './visual/files-visual.css';
 import './visual/scan-visual.css';
 import './visual/apps-visual.css';
+import './visual/studio-reference.css';
 import { CinematicEntry } from './features/cinematic-entry/CinematicEntry';
 
 export type { AppSection } from './context/NavigationContext';
